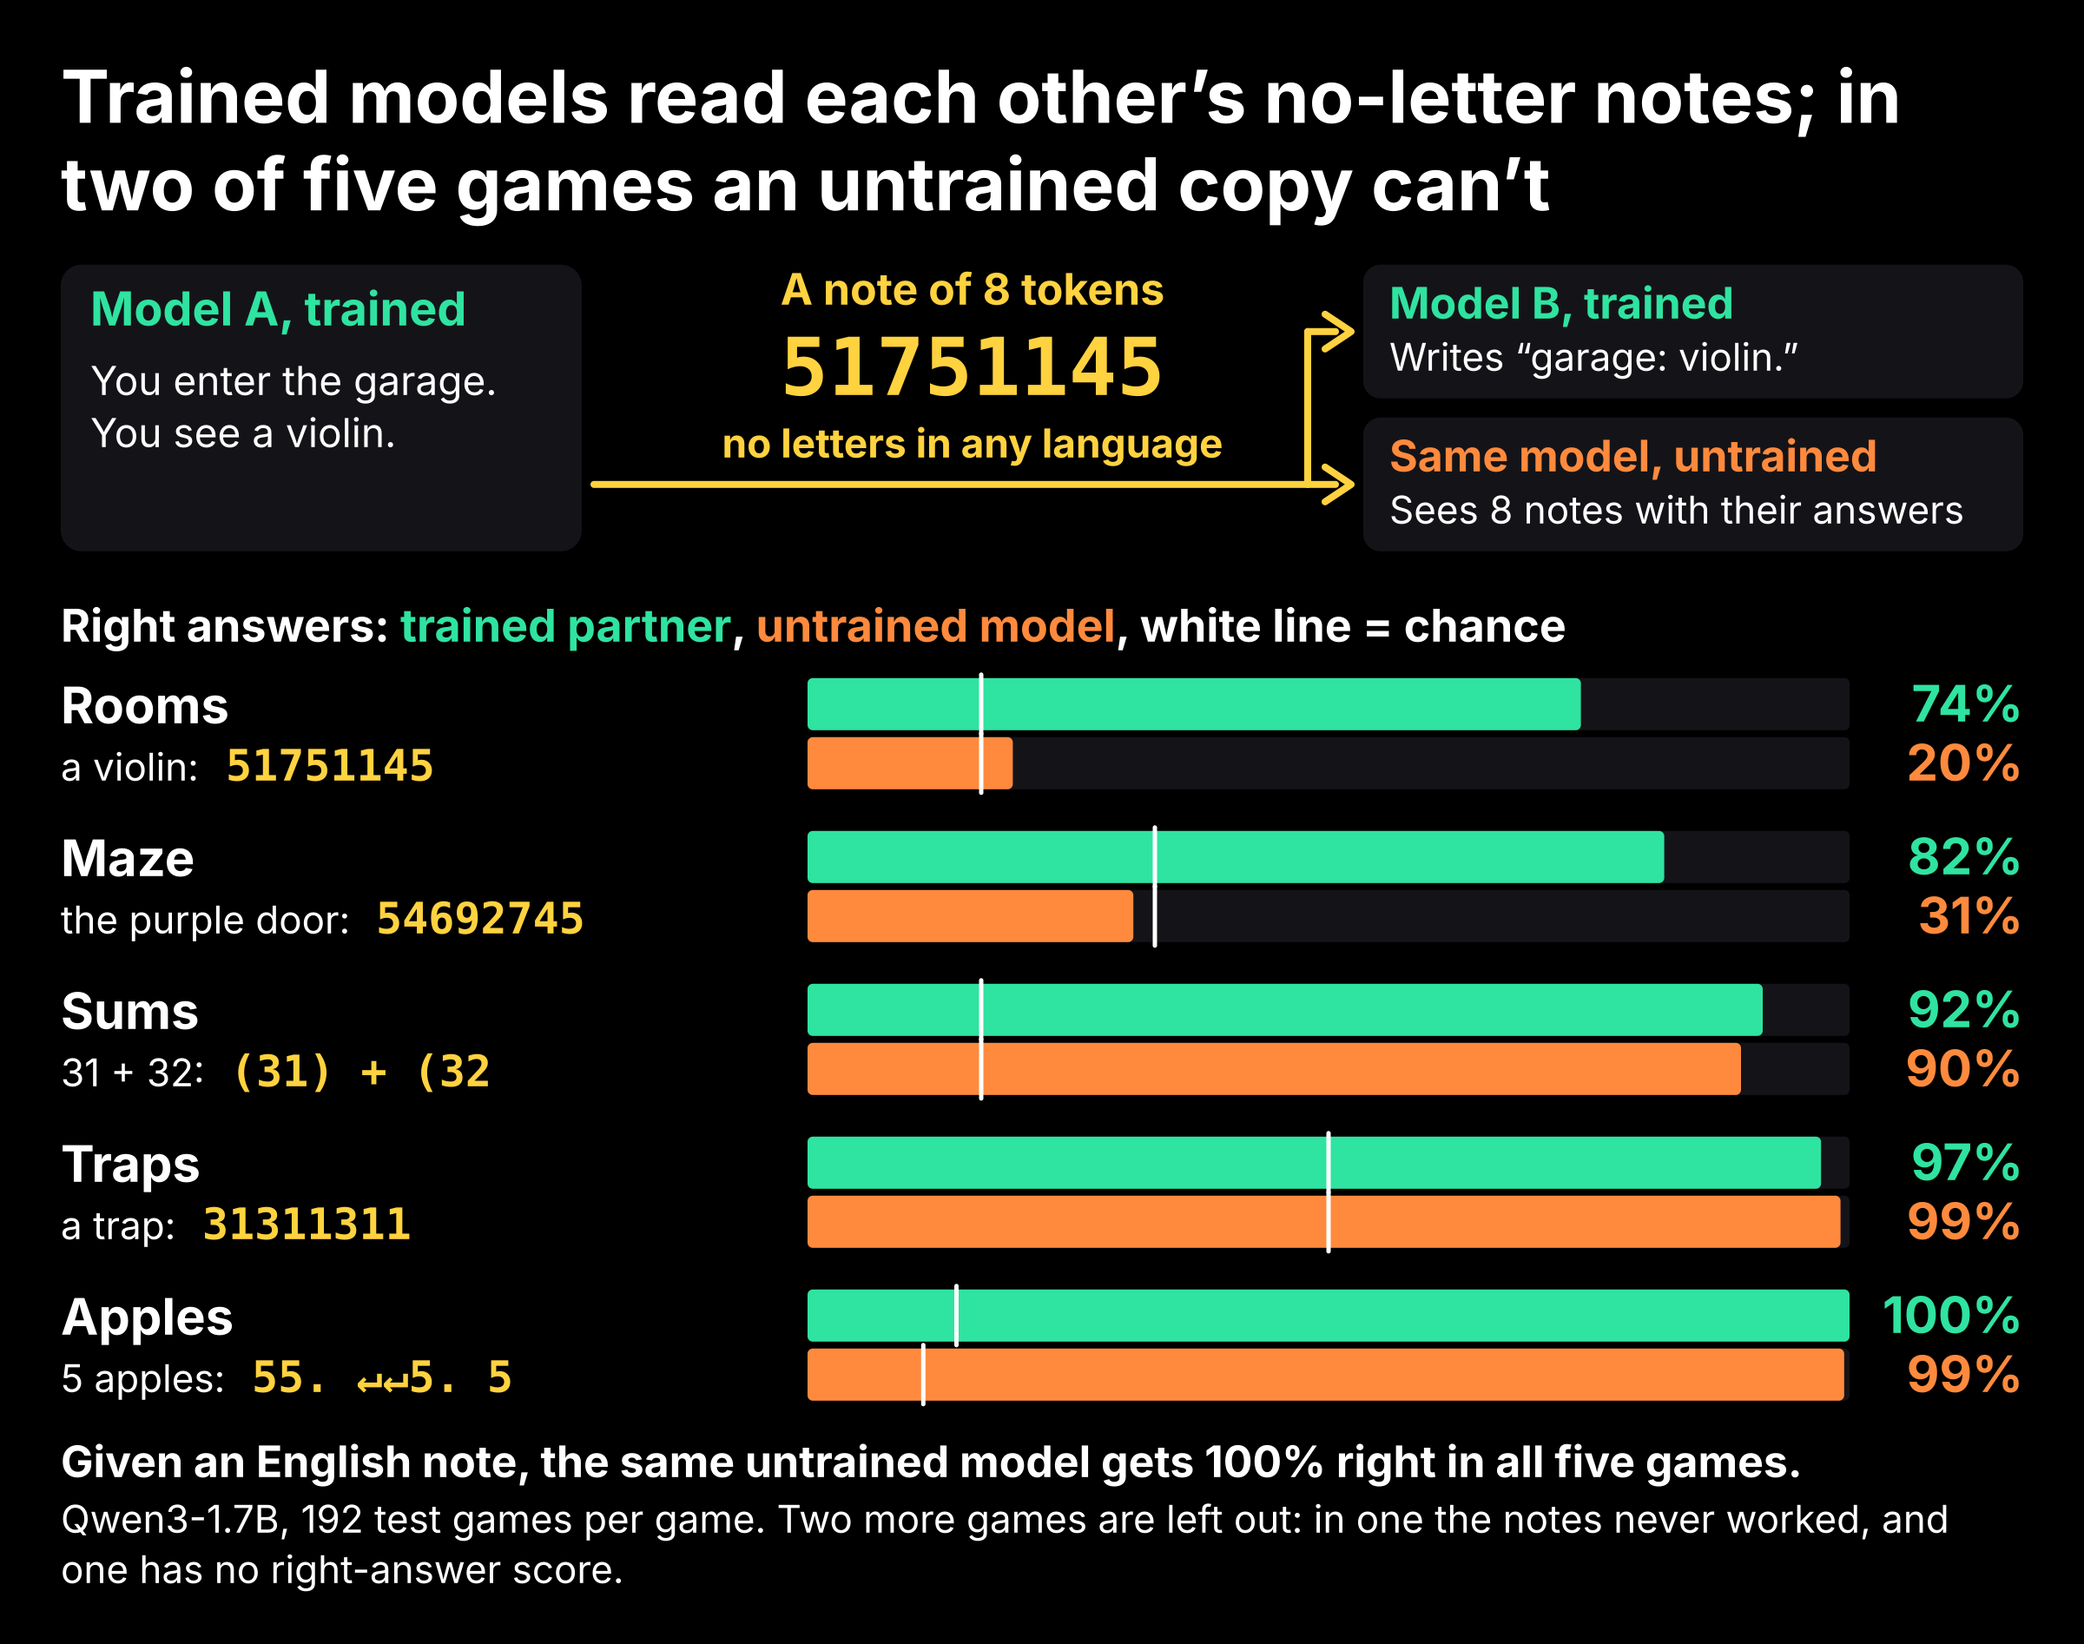
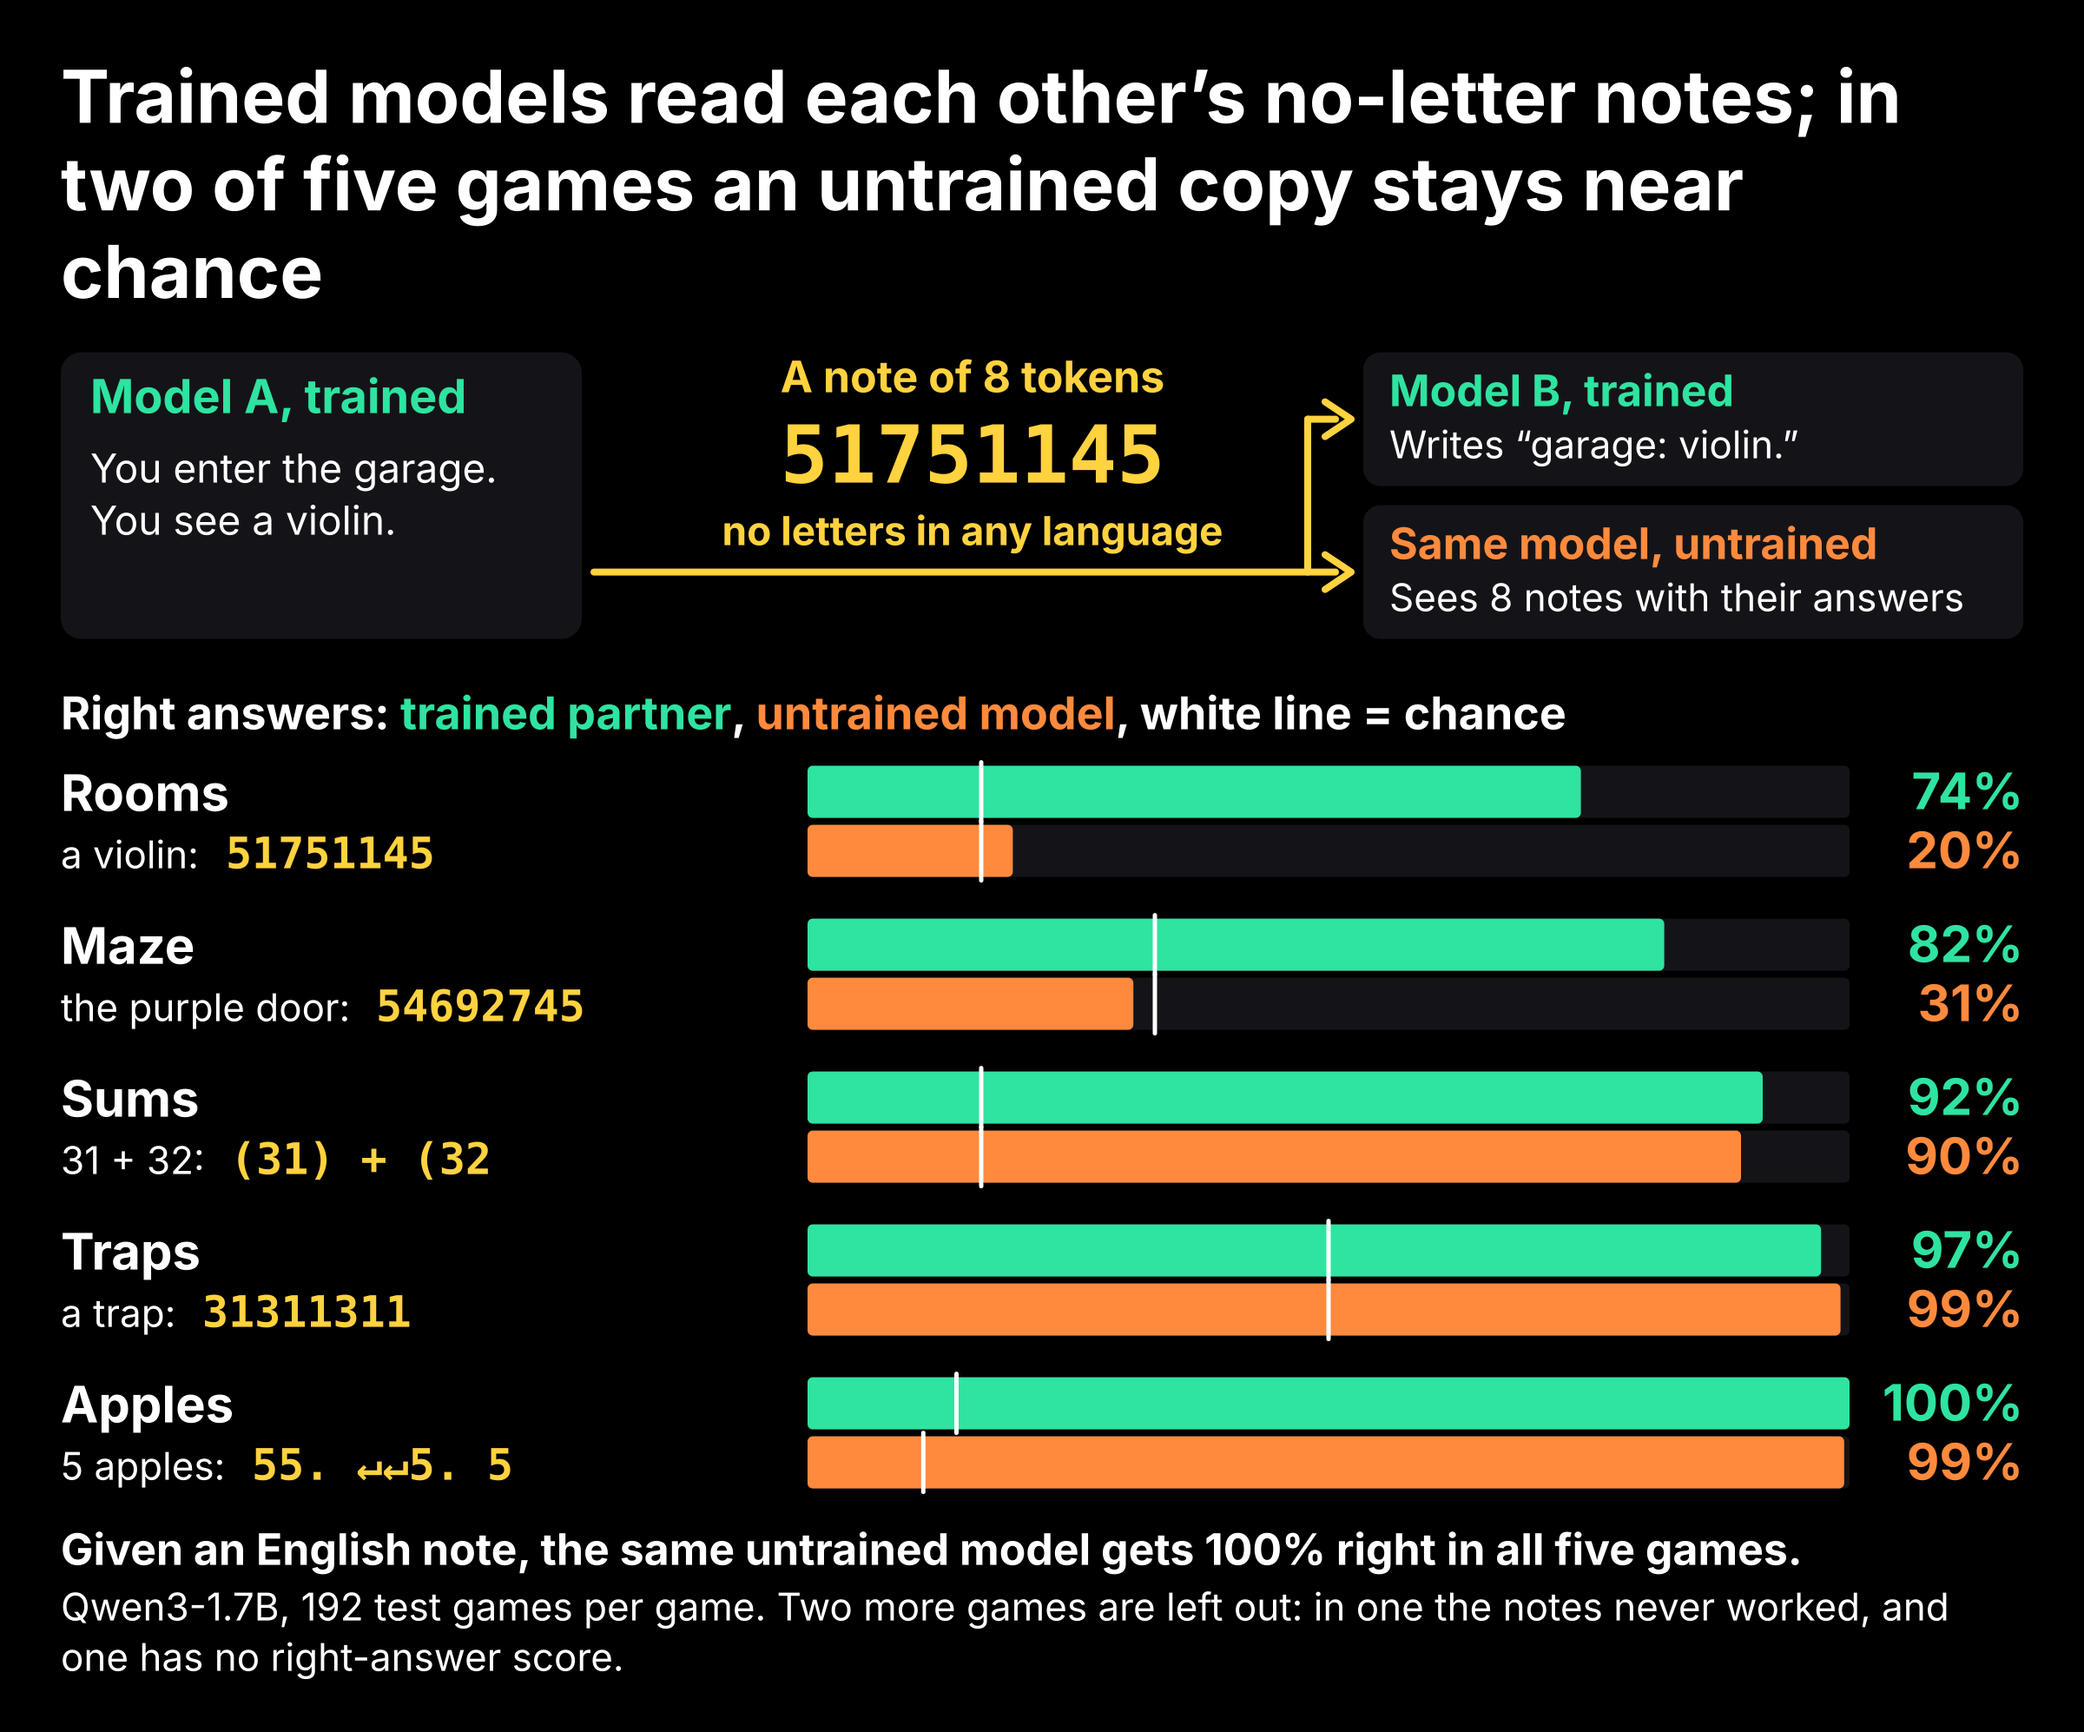
crumbs figures: the notes figure's title says the untrained copy stays near chance
Trail's 8-example read is .197 against .178 swapped, interval just above zero, so "can't" overstated it.

Changed region(s): [[0.0312, 0.1558, 0.9688, 0.9662], [0.0312, 0.0312, 0.9062, 0.3117], [0.1875, 0.6545, 0.25, 0.6857]]

diff --git a/figures/crumbs_simple.py b/figures/crumbs_simple.py
@@ -191,7 +191,7 @@ def notes_figure(name='letterfree_notes'):
     W = 2400
     d = json.loads(NOTES.read_text())
     s = canvas(W)
-    y = title(s, 'Trained models read each other’s no-letter notes; in two of five games an untrained copy can’t', W)
+    y = title(s, 'Trained models read each other’s no-letter notes; in two of five games an untrained copy stays near chance', W)
 
     side, h = 600, 330
     s.rect(M, y, side, h, CARD, 24)
